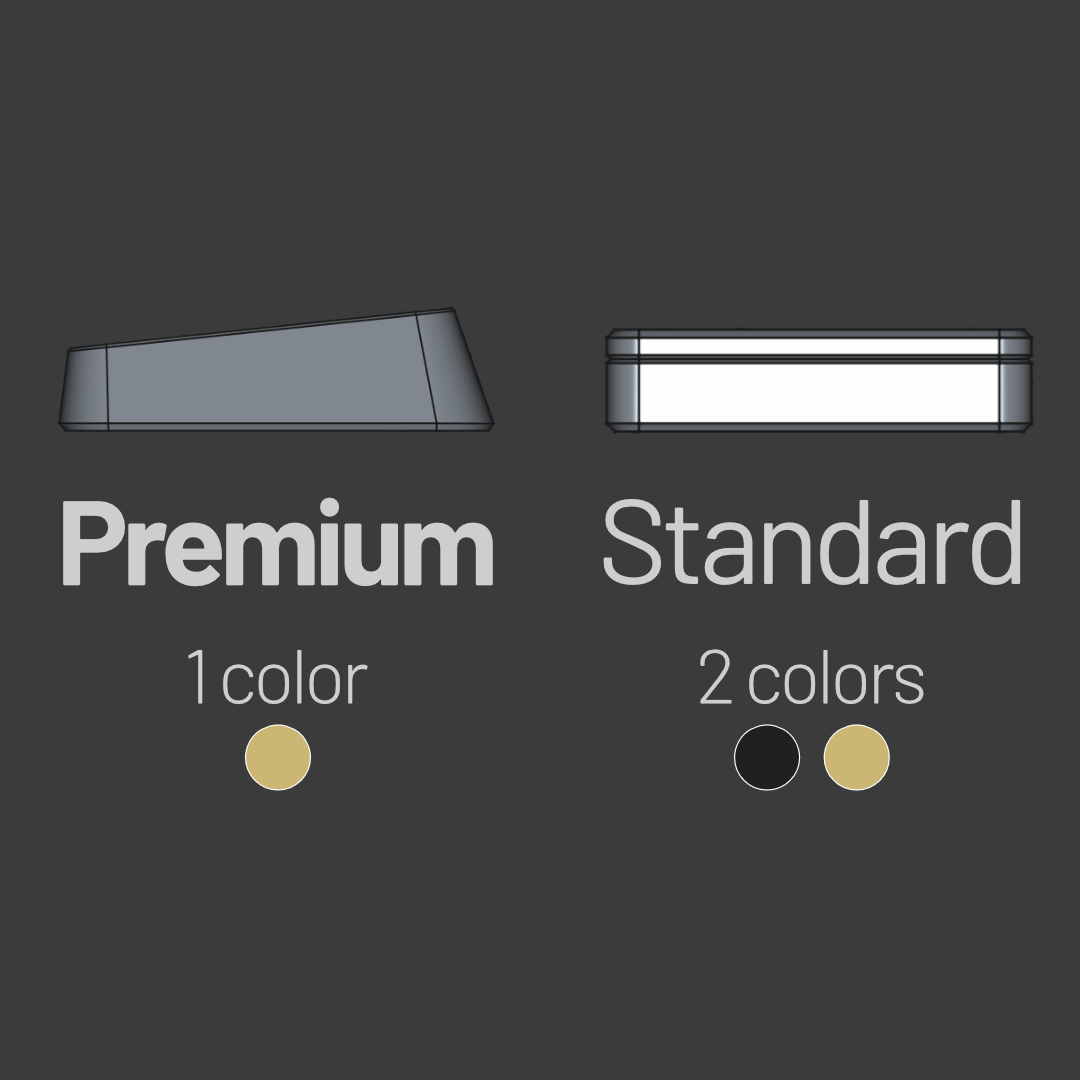
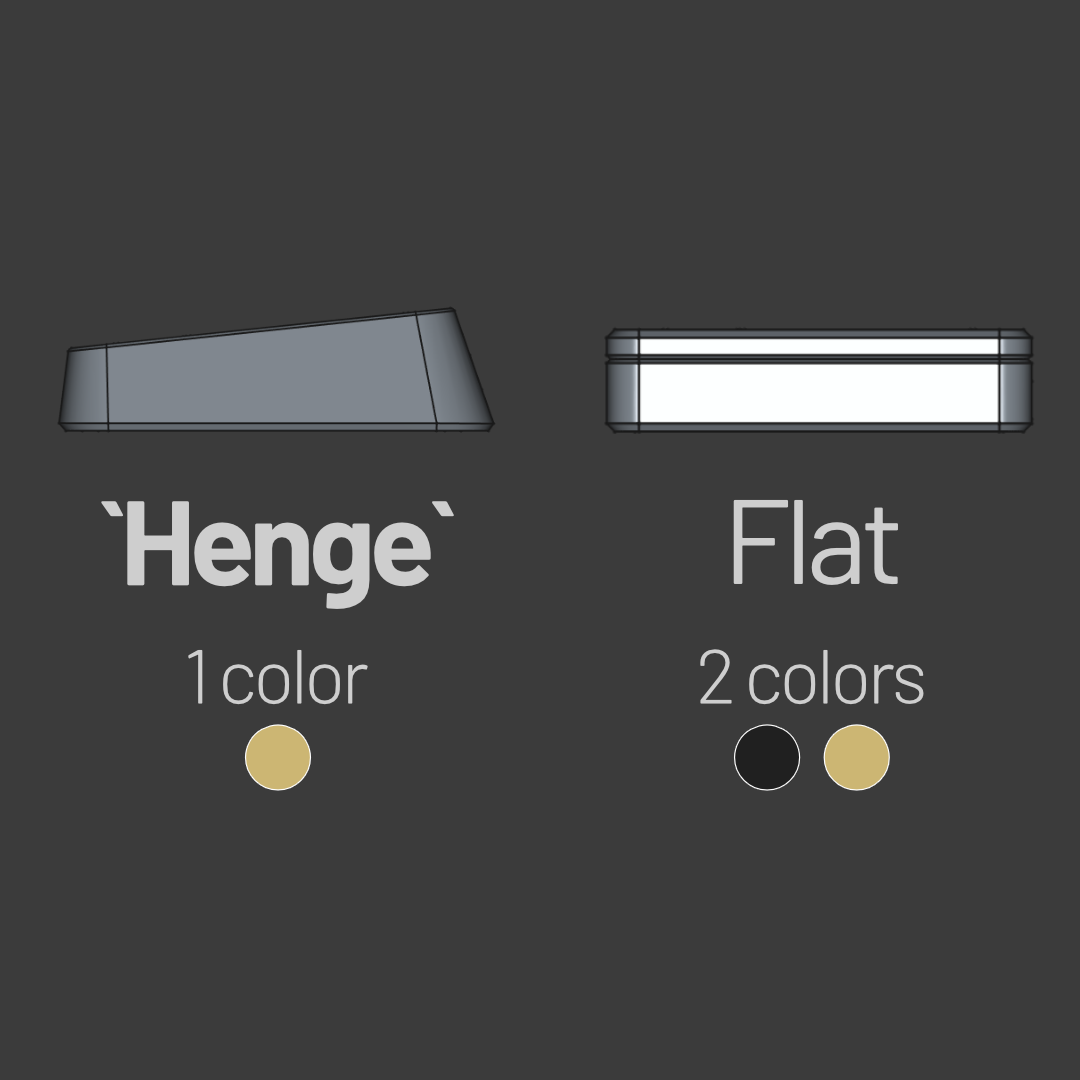
ケース名の変更

Changed region(s): [[0.55, 0.4583, 0.9472, 0.55], [0.0611, 0.4583, 0.4583, 0.5806]]

diff --git a/_posts/products/2025-01-12-henge40.md b/_posts/products/2025-01-12-henge40.md
@@ -24,10 +24,10 @@ feature_row:
     excerpt: "ホームポジションのまますべてのキーに指が届きます。一般的な横ずれ配置のためフルサイズと同じ感覚で使えます。"
   - image_path: /assets/images/products/henge40/henge40-feature-cases.png
     title: "アルミ削り出し"
-    excerpt: "[Menhirキーボード](https://fruitykeeb.xyz/collections/menhir-collection/products/gb-menhir)にインスパイアされたテーパーが美しいPremiumケースと、フラットでモダンなStandardケースから選べます。"
+    excerpt: "[Menhirキーボード](https://fruitykeeb.xyz/collections/menhir-collection/products/gb-menhir)にインスパイアされたテーパーが美しい'Henge'ケースと、モダンなFlatケースから選べます。"
   - image_path: /assets/images/products/henge40/henge40-feature-foams.png
     title: "コトコトな打鍵感"
-    excerpt: "ドローン等で用いられるdamping ballを使ったガスケットマウントと、3種のフォームでコトコトとした心地よい打鍵感を実現します。"
+    excerpt: "ドローンの衝撃吸収に用いられるdamping ballを使ったガスケットマウントと、3種のフォームでコトコトとした心地よい打鍵感を実現します。"
     url: https://soundcloud.com/ymkn-19566570/vertex-v1-on-henge40-with
     btn_label: "打鍵音を聴く"
     btn_class: "btn--info"
@@ -57,17 +57,17 @@ feature_row:
 ## 仕様
 
 |名称|Henge40 (ヘンジ40)|
-|対応ケース|専用ケース (Premium / Standard)|
+|対応ケース|専用ケース ('Henge' / Flat)|
 |ケース素材|アルミニウム|
-|カラー|Premium: シャンパンゴールド、Standard: シャンパンゴールド/マットブラック|
-|打鍵角度|Premium: 6度、Standard: 0度 (角度調整用ゴム足付属)|
+|カラー|'Henge': シャンパンゴールド、Flat: シャンパンゴールド/マットブラック|
+|打鍵角度|'Henge': 6度、Flat: 0度 (角度調整用ゴム足付属)|
 |プレート素材|FR4|
 |フォーム素材|スイッチフォーム: SlimFlex (旧PORON)、スイッチパッド: IXPE、ケースフォーム: EVA|
 |対応マウント方式|ガスケットマウント (シリコン素材Damping Ball使用)|
 |対応スイッチ|Cherry MX互換品|
 |対応キーキャップ|Cherry MXスイッチ互換品|
 |対応スタビライザー|Cherry MX互換キーキャップ用 PCBマウント方式|
-|ケース外形|Premium: 282.0mm x 113.2mm x 33.0mm、Standard: 272.3mm x 105.6mm x 26.3mm|
+|ケース外形|'Henge': 282.0mm x 113.2mm x 33.0mm、Flat: 272.3mm x 105.6mm x 26.3mm|
 |接続|USB Type-C (USB 2.0) 有線接続|
 |バッテリー容量|非対応|
 |ファームウェア|Vial/QMK|
